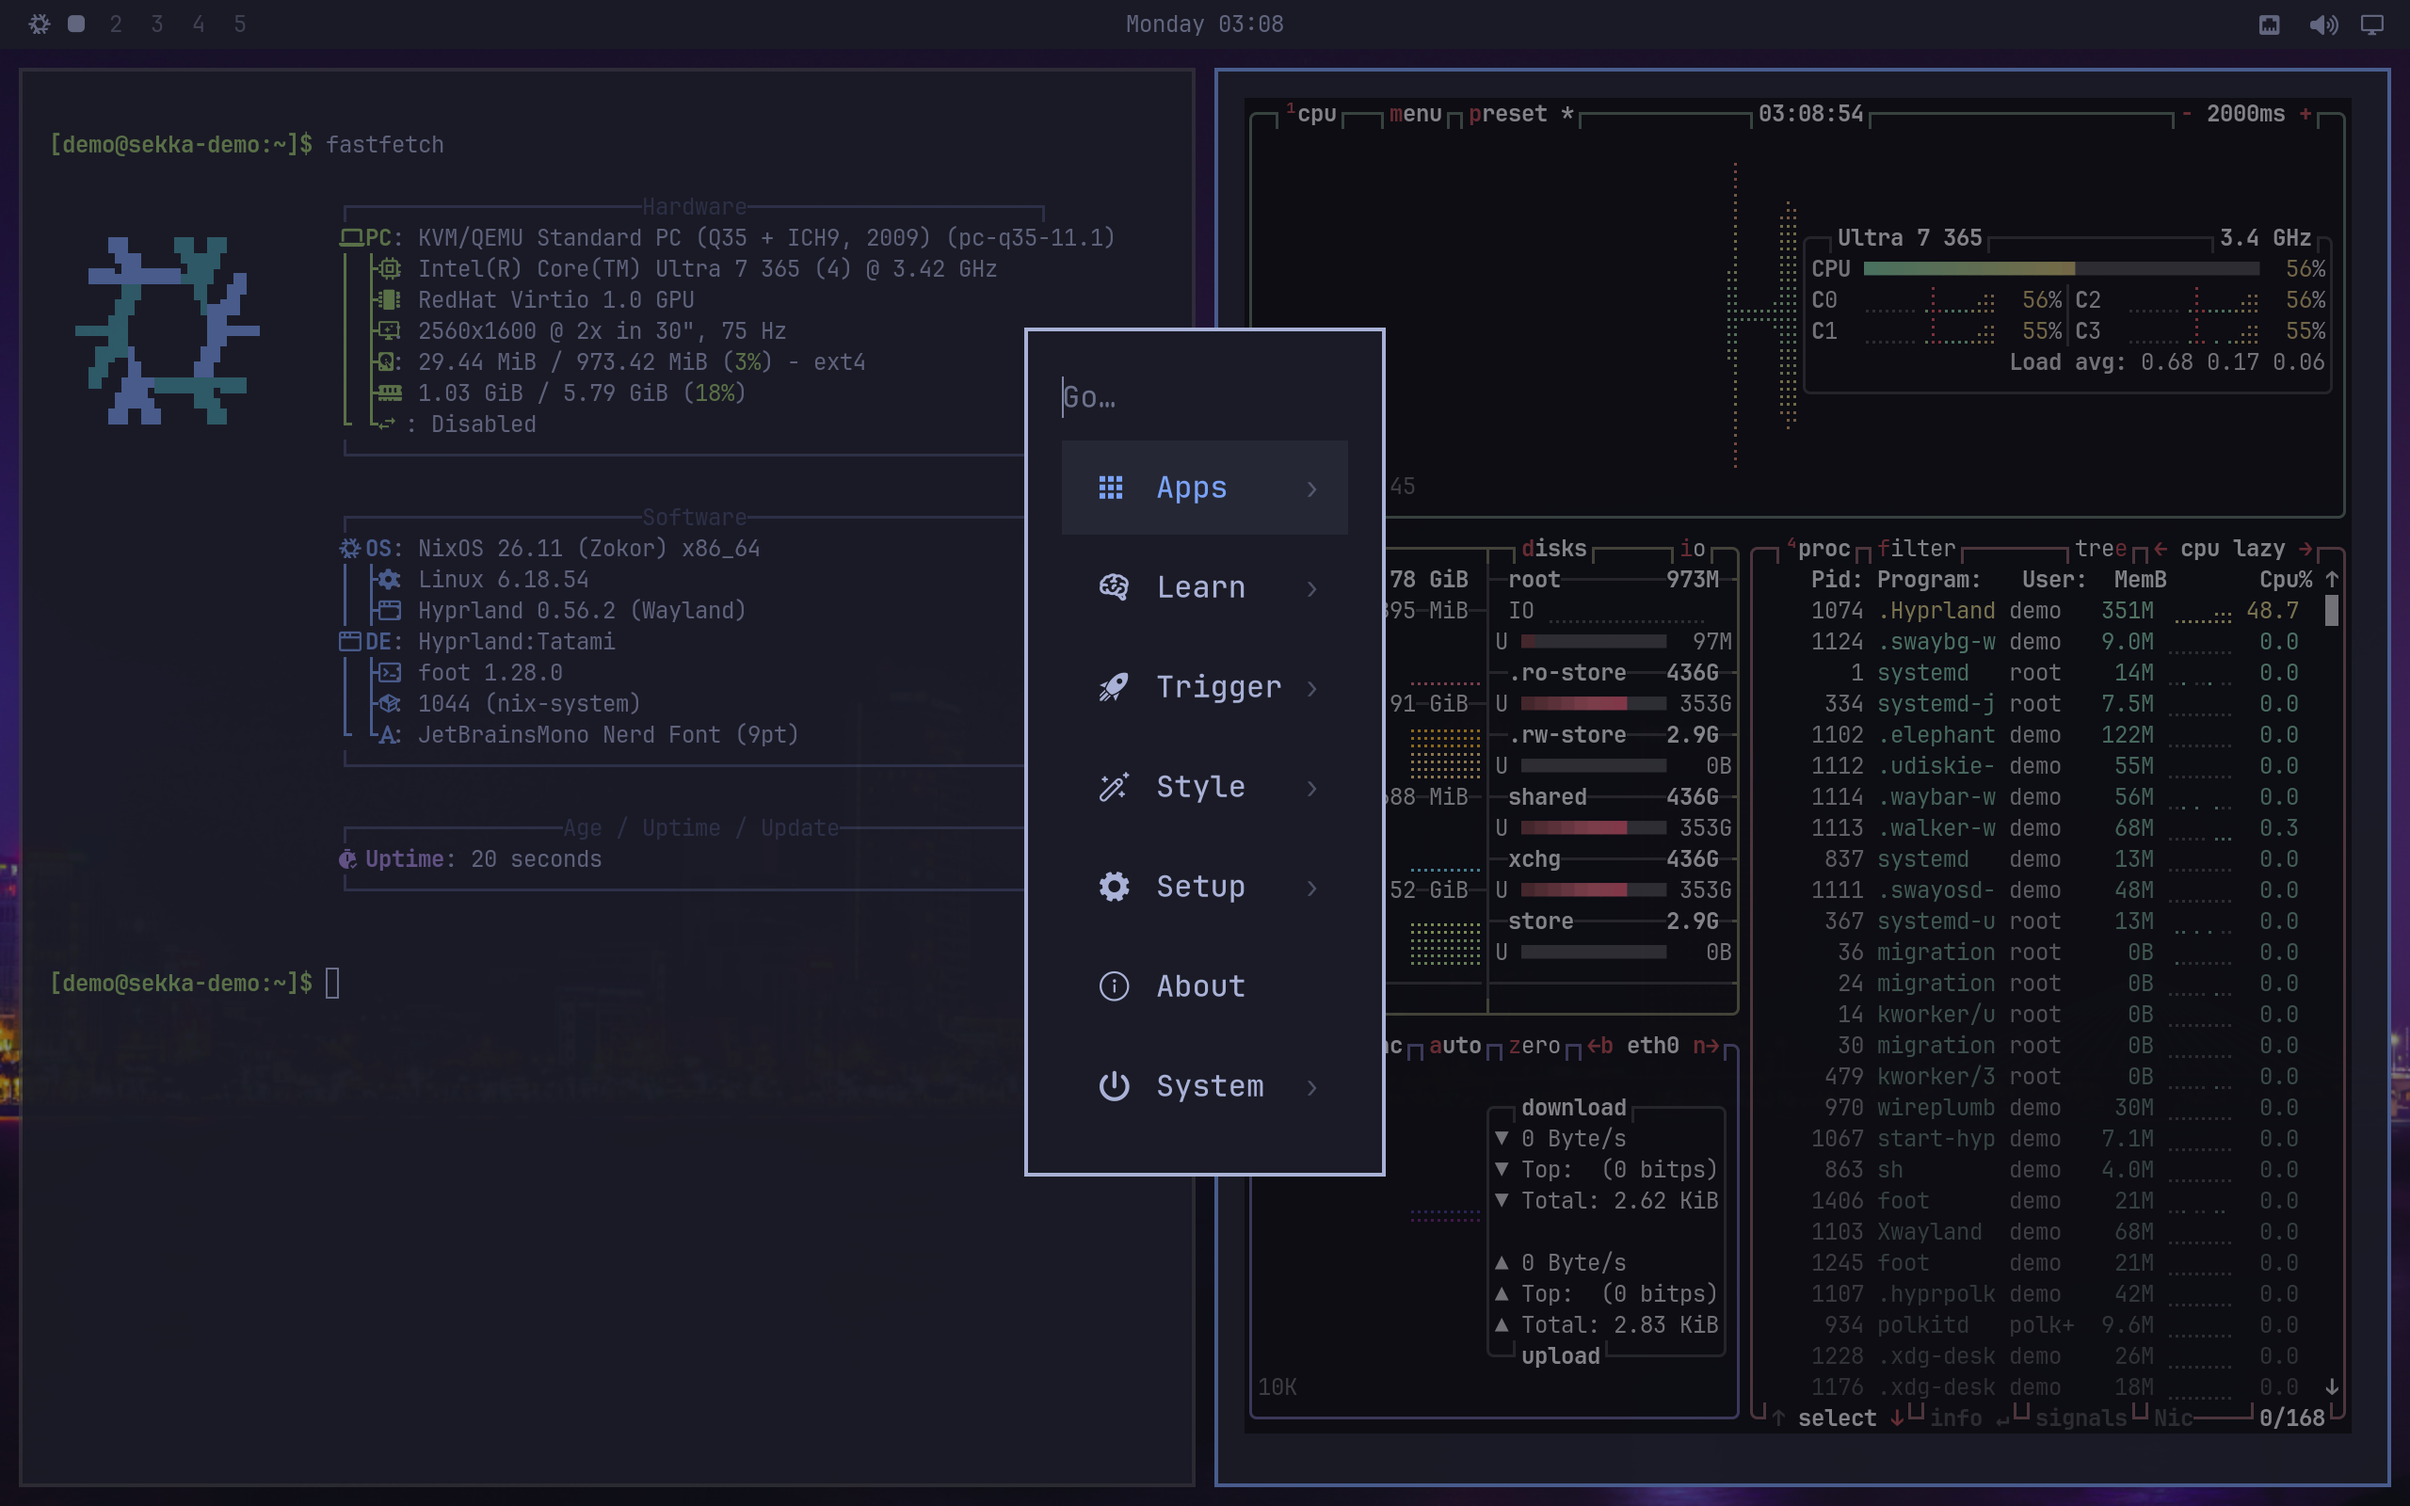
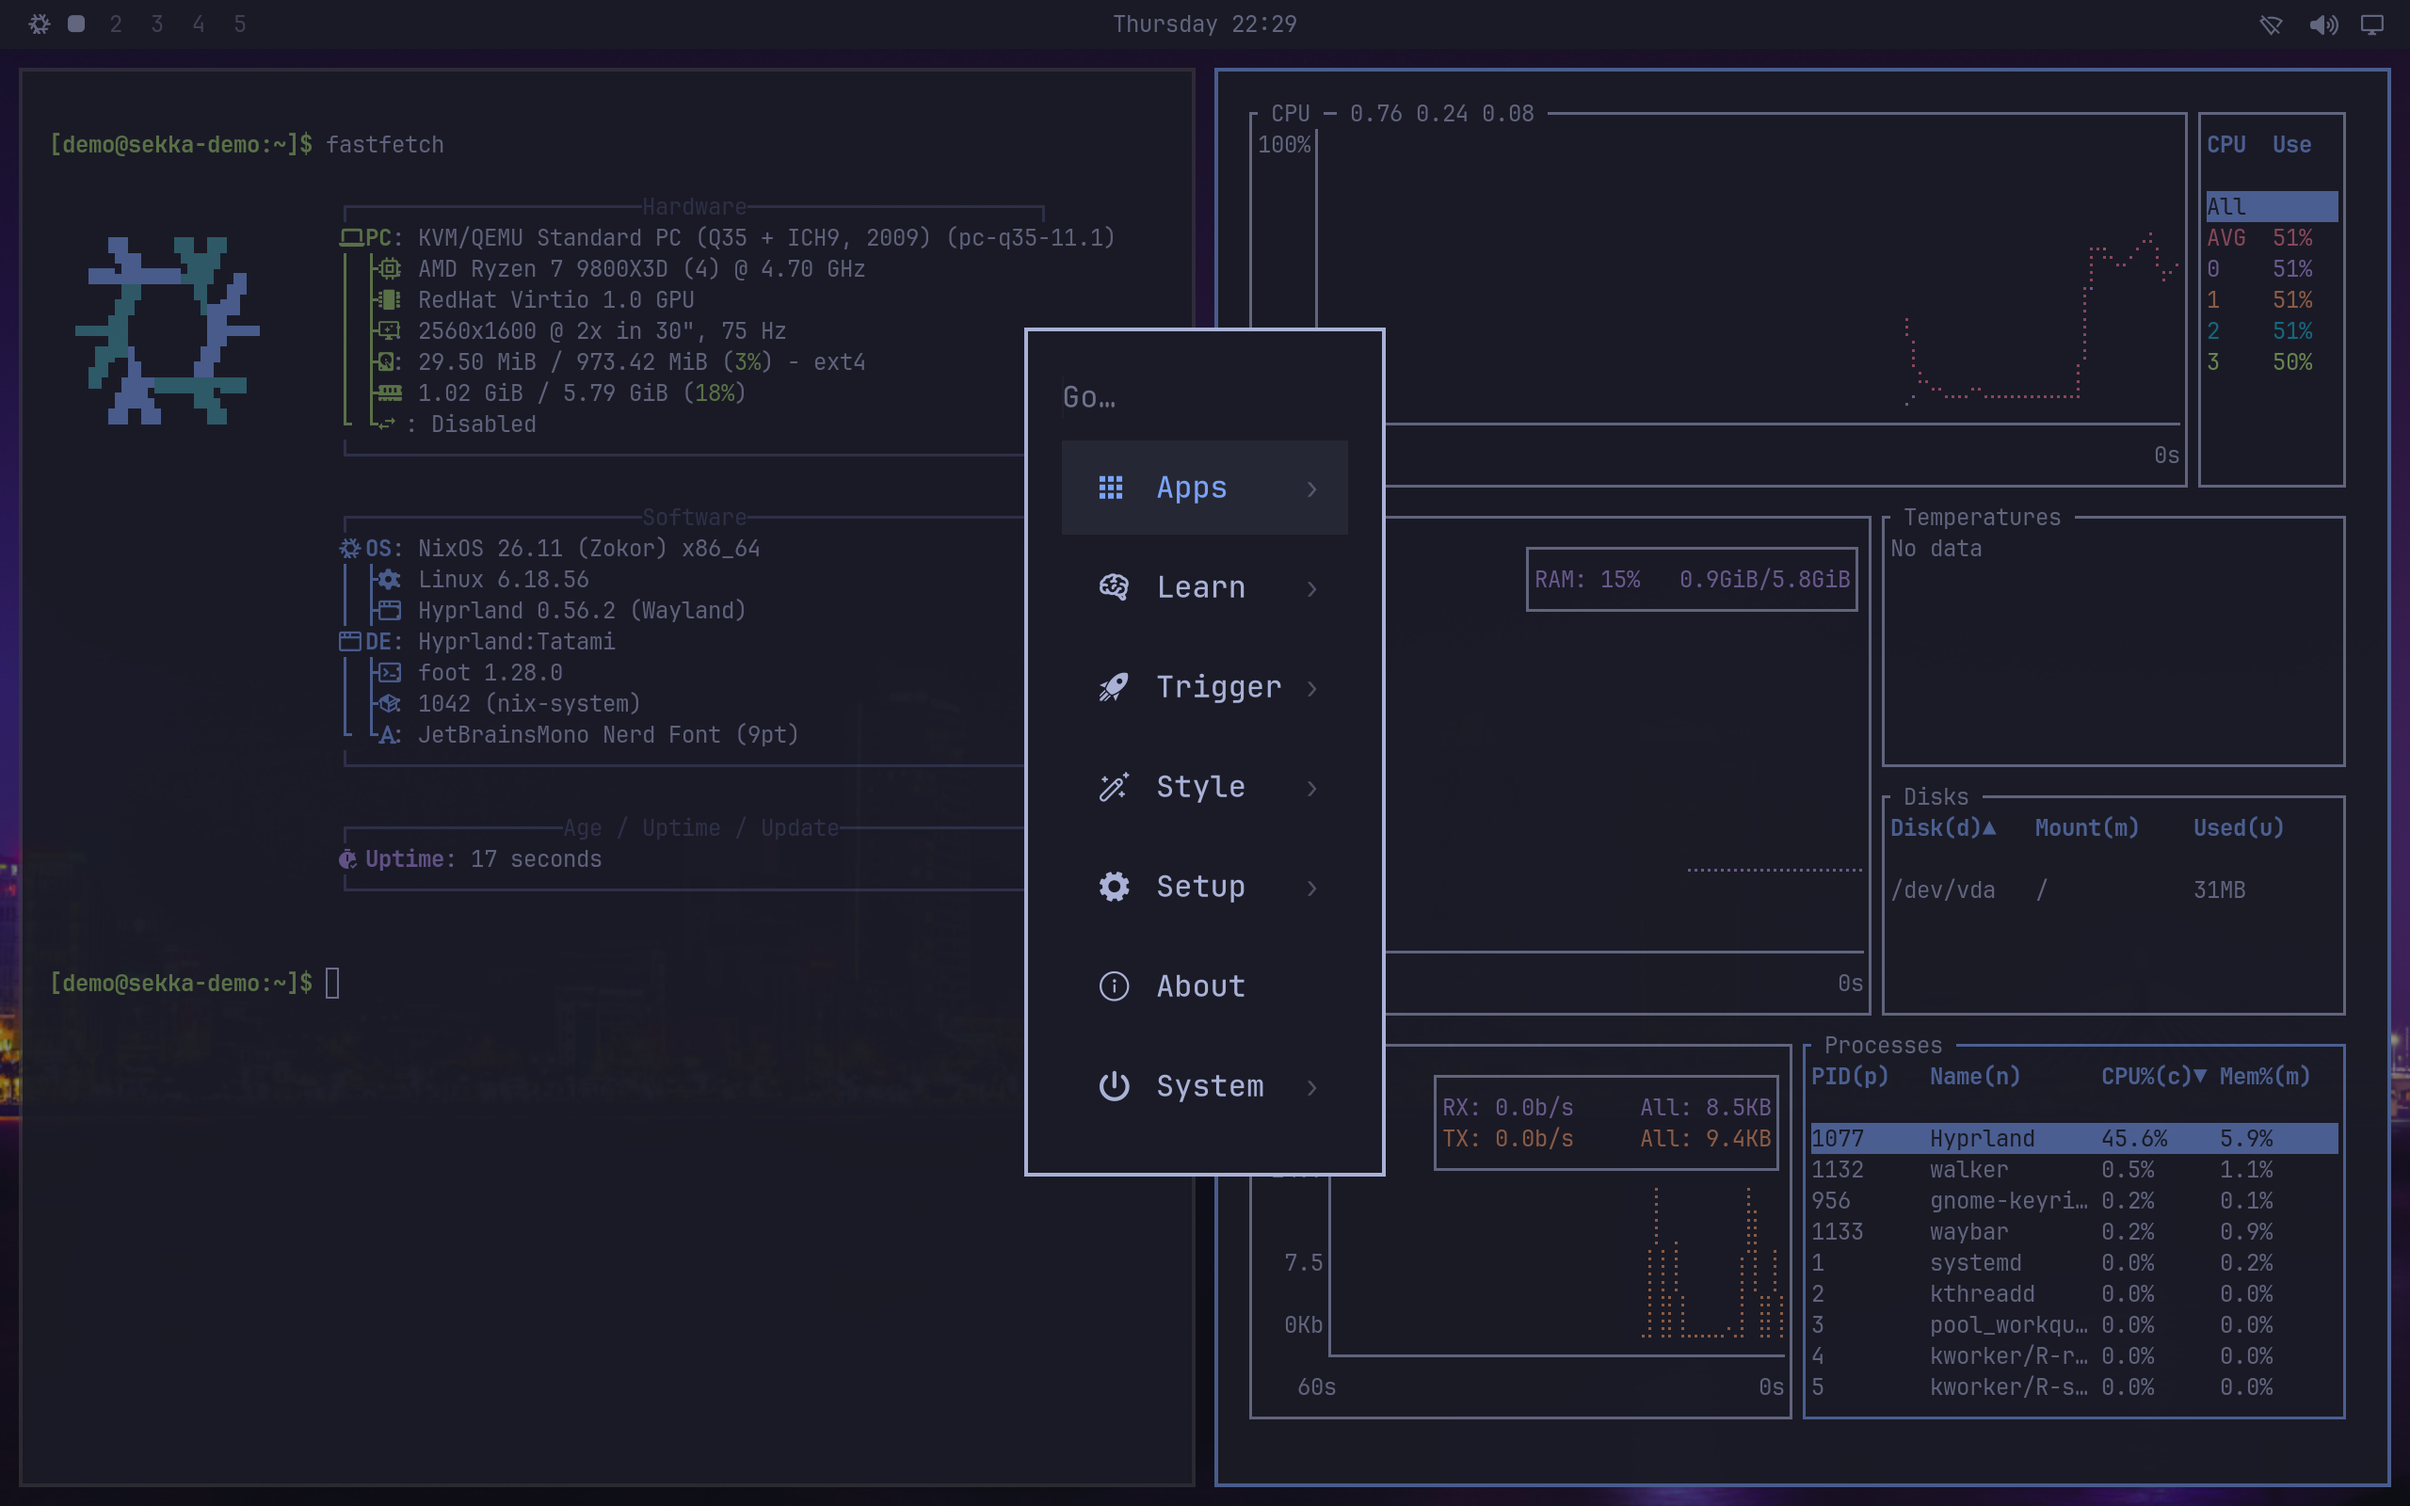
Capture Tatami's screenshots with bottom
Tatami now ships bottom as its system monitor, so the screenshot test
installs bottom and runs btm beside fastfetch. tatami.png and
tatami-menu.png are byte-for-byte copies of the new 2560 x 1600
captures from nix build .#screenshots, built on the commit that replaces
btop in Tatami. Their README alt text, website captions and provenance
row now name bottom. The other captures are unchanged.

diff --git a/site/src/pages.rs b/site/src/pages.rs
@@ -26,7 +26,7 @@ pub fn home(site: &Site) -> Result<Page> {
             .inline("sekka-lockup-night.svg", "hero-lockup", "Sekka 雪花")?,
         shot = site.shot(
             "tatami.png",
-            "Tatami with two terminals tiled side by side: fastfetch and btop, in Tokyo Night colours.",
+            "Tatami with two terminals tiled side by side: fastfetch and bottom, in Tokyo Night colours.",
             "Tatami in a disposable test VM built from Sekka's own modules.",
             "win hero-shot",
         )?,
@@ -178,7 +178,7 @@ pub fn tatami(site: &Site) -> Result<Page> {
         icon = site.asset("brand/tatami.svg")?,
         shot = site.shot(
             "tatami-menu.png",
-            "Tatami's menu open over two terminals: fastfetch and btop.",
+            "Tatami's menu open over two terminals: fastfetch and bottom.",
             "Tatami's menu (Super + Space) in a disposable test VM. The bar still shows the NixOS logo.",
             "win wide-shot",
         )?,

diff --git a/docs/screenshots.md b/docs/screenshots.md
@@ -6,7 +6,7 @@ files. They are not upscaled, composited, or generated illustrations.
 | Image | Original resolution | What it shows |
 | --- | --- | --- |
 | [Genkan](images/sekka/genkan.png) | 2560 × 1600 | Current GTK interface in its debug-only welcome preview, with synthetic installation/cache data, on Sekka's Plasma session |
-| [Tatami](images/sekka/tatami.png) | 2560 × 1600 | Tatami with two terminals opened with Super+Return: Tatami's fastfetch, and btop |
+| [Tatami](images/sekka/tatami.png) | 2560 × 1600 | Tatami with two terminals opened with Super+Return: Tatami's fastfetch, and bottom |
 | [Tatami menu](images/sekka/tatami-menu.png) | 2560 × 1600 | The Tatami menu, opened with Super+Space over the same terminals |
 | [Yukimi](images/sekka/yukimi.png) | 2560 × 1600 | Current application in Tatami, reading the test VM `sekka-demo` |
 | [Plasma](images/sekka/plasma.png) | 2560 × 1600 | Sekka's Plasma session with Konsole running fastfetch over Dolphin |

diff --git a/README.md b/README.md
@@ -66,7 +66,7 @@ Sekka also enables USB keyboard and mouse wake paths, including their parent
 hubs. Waking from an intentional suspend still depends on the hardware and
 firmware; try a key or mouse button if mouse movement does not wake it.
 
-[![Tatami with two terminals: fastfetch and btop](docs/images/sekka/tatami.png)](docs/images/sekka/tatami.png)
+[![Tatami with two terminals: fastfetch and bottom](docs/images/sekka/tatami.png)](docs/images/sekka/tatami.png)
 
 [![The Tatami menu over the terminals](docs/images/sekka/tatami-menu.png)](docs/images/sekka/tatami-menu.png)
 
